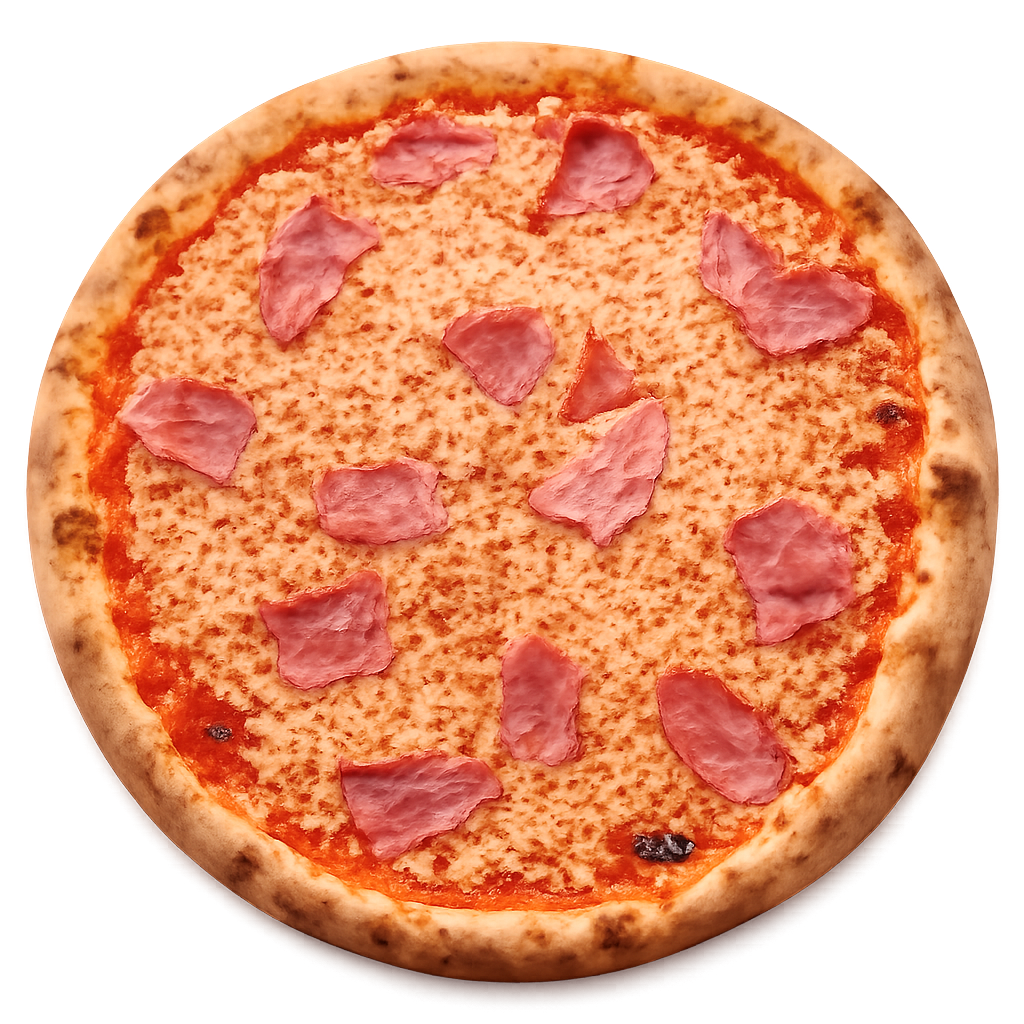
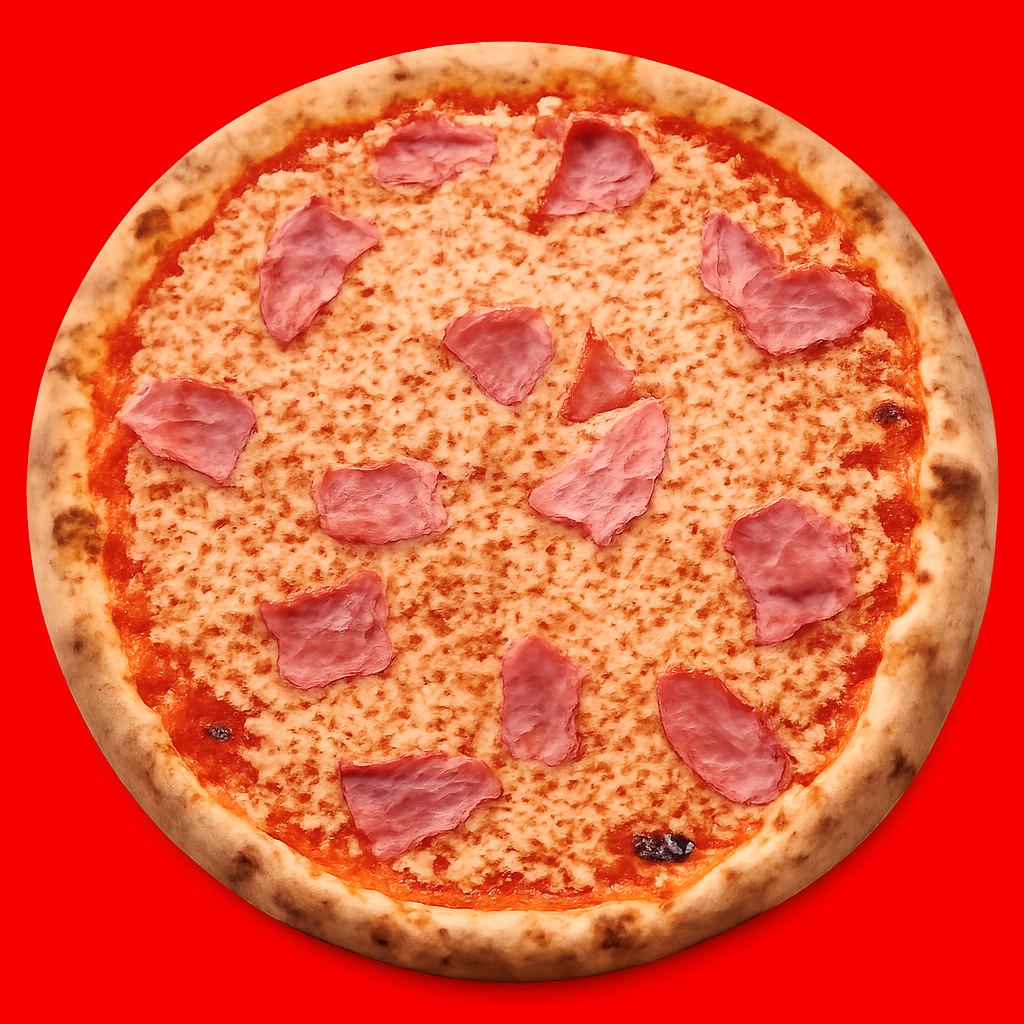
Change the background-color of the Prosciutto picture

diff --git a/main.css b/main.css
@@ -297,7 +297,7 @@ body {
 }
 
 .menu-img {
-  width: 90%;
+  width: 70%;
   object-fit: cover;
 }
 
@@ -306,19 +306,17 @@ body {
   text-transform: uppercase;
   letter-spacing: 0.1rem;
   font-weight: 400;
-  height: 3rem;
-  margin-top: 1rem;
+  margin-top: 0.5rem;
   display: flex;
   align-items: center;
 }
 
 .ingredients {
   font-weight: 200;
-  height: 3rem;
   display: flex;
   justify-content: center;
   align-items: center;
-  margin-top: 1rem;
+  margin-top: 0.5rem;
 }
 
 .menu-order {
@@ -329,7 +327,7 @@ body {
   text-transform: lowercase;
   color: var(--text-color);
   font-weight: 600;
-  margin-top: 1rem;
+  margin-top: 0.5rem;
 }
 
 .arrow {
@@ -399,6 +397,19 @@ body {
   .menu-dishes {
     display: grid;
     grid-template-columns: 1fr 1fr;
+  }
+
+  .dish-heading {
+    height: 3rem;
+  }
+
+  .ingredients {
+    height: 3rem;
+    margin-top: 1rem;
+  }
+
+  .menu-order {
+    margin-top: 1rem;
   }
 }
 
@@ -479,6 +490,10 @@ body {
     display: flex;
     flex-direction: row;
     margin-top: 2.5rem;
+  }
+
+  .menu-img {
+    width: 90%;
   }
 
   .ingredients {

diff --git a/menu.html b/menu.html
@@ -178,7 +178,10 @@
                   class="menu-img"
                 />
                 <h3 class="dish-heading">Prosciutto</h3>
-                <p class="ingredients">(Hinterschinken, Käse)</p>
+                <p class="ingredients">
+                  (Hinterschinken,<br />
+                  Mozzarella, ital. Hartkäse)
+                </p>
                 <div class="menu-order">
                   <p class="menu-order-cta">Jetzt bestellen</p>
                   <span class="arrow">></span>
@@ -190,8 +193,10 @@
                   alt="Pizza Salami"
                   class="menu-img"
                 />
-                <h3 class="dish-heading">Salami</h3>
-                <p class="ingredients">(Salami, Käse)</p>
+                <h3 class="dish-heading">Salami<br />Piccante</h3>
+                <p class="ingredients">
+                  (Salami,<br />ital. Hartkäse, Pepperoni)
+                </p>
                 <div class="menu-order">
                   <p class="menu-order-cta">Jetzt bestellen</p>
                   <span class="arrow">></span>
